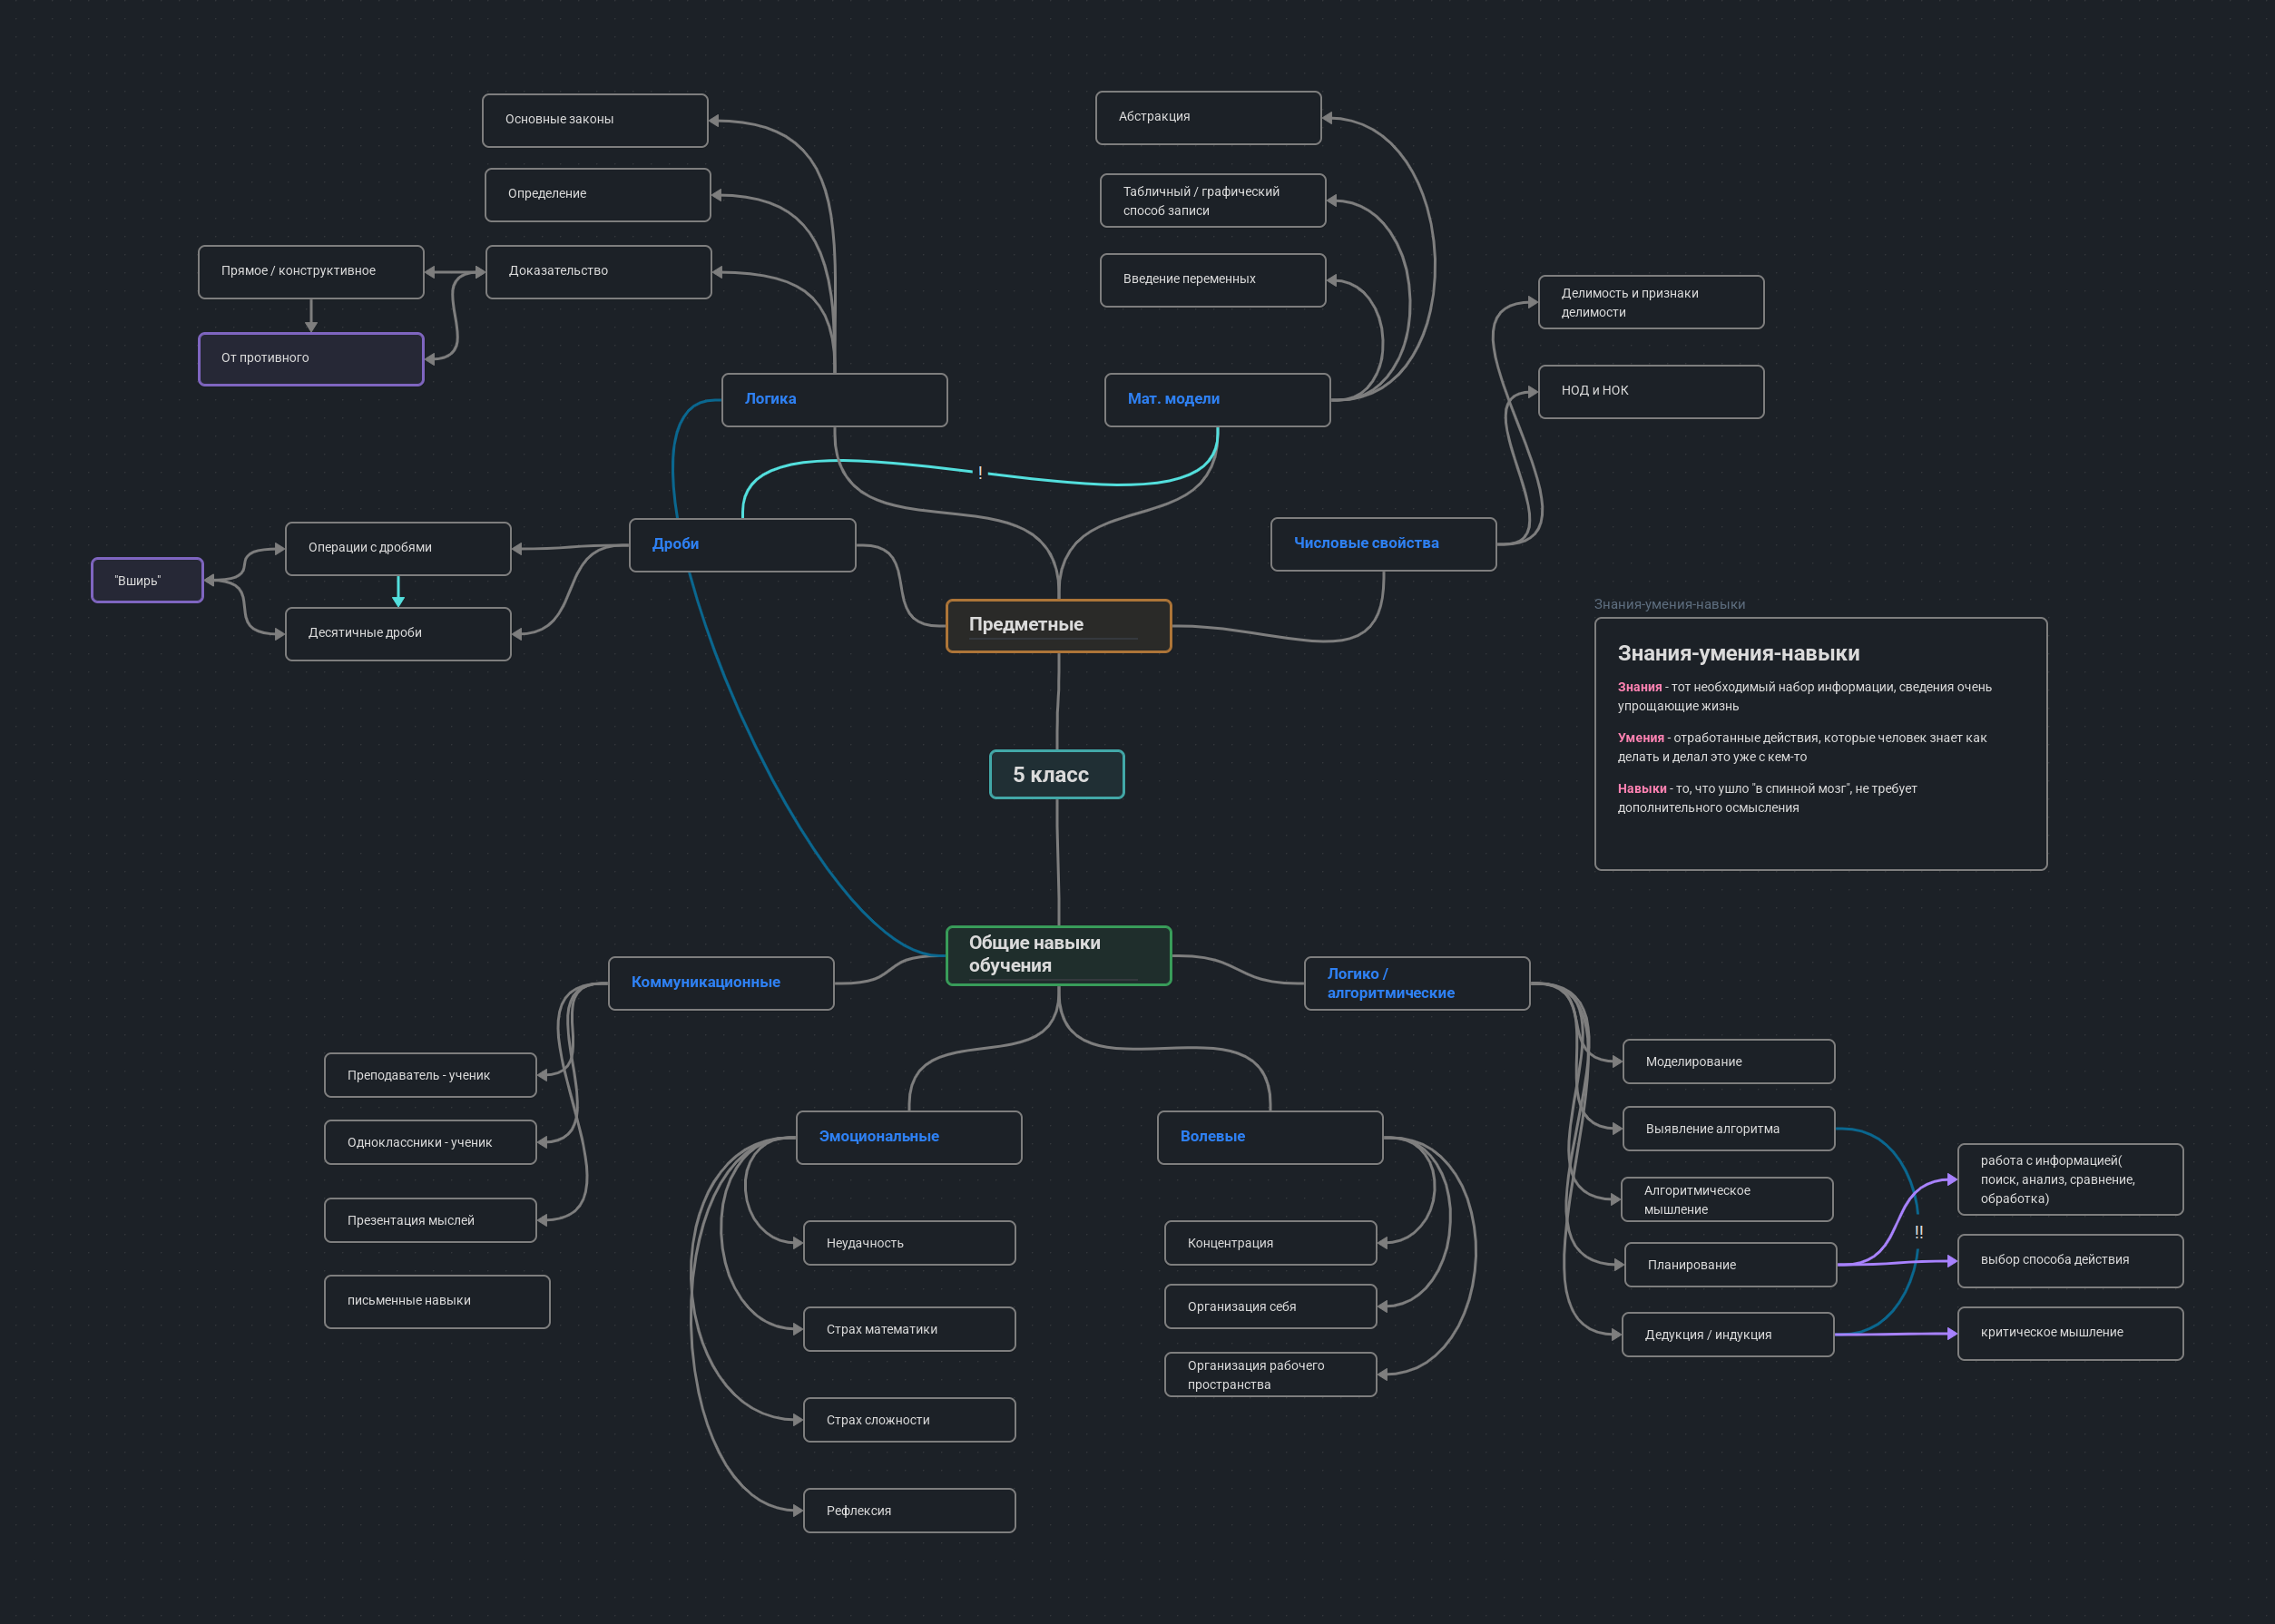
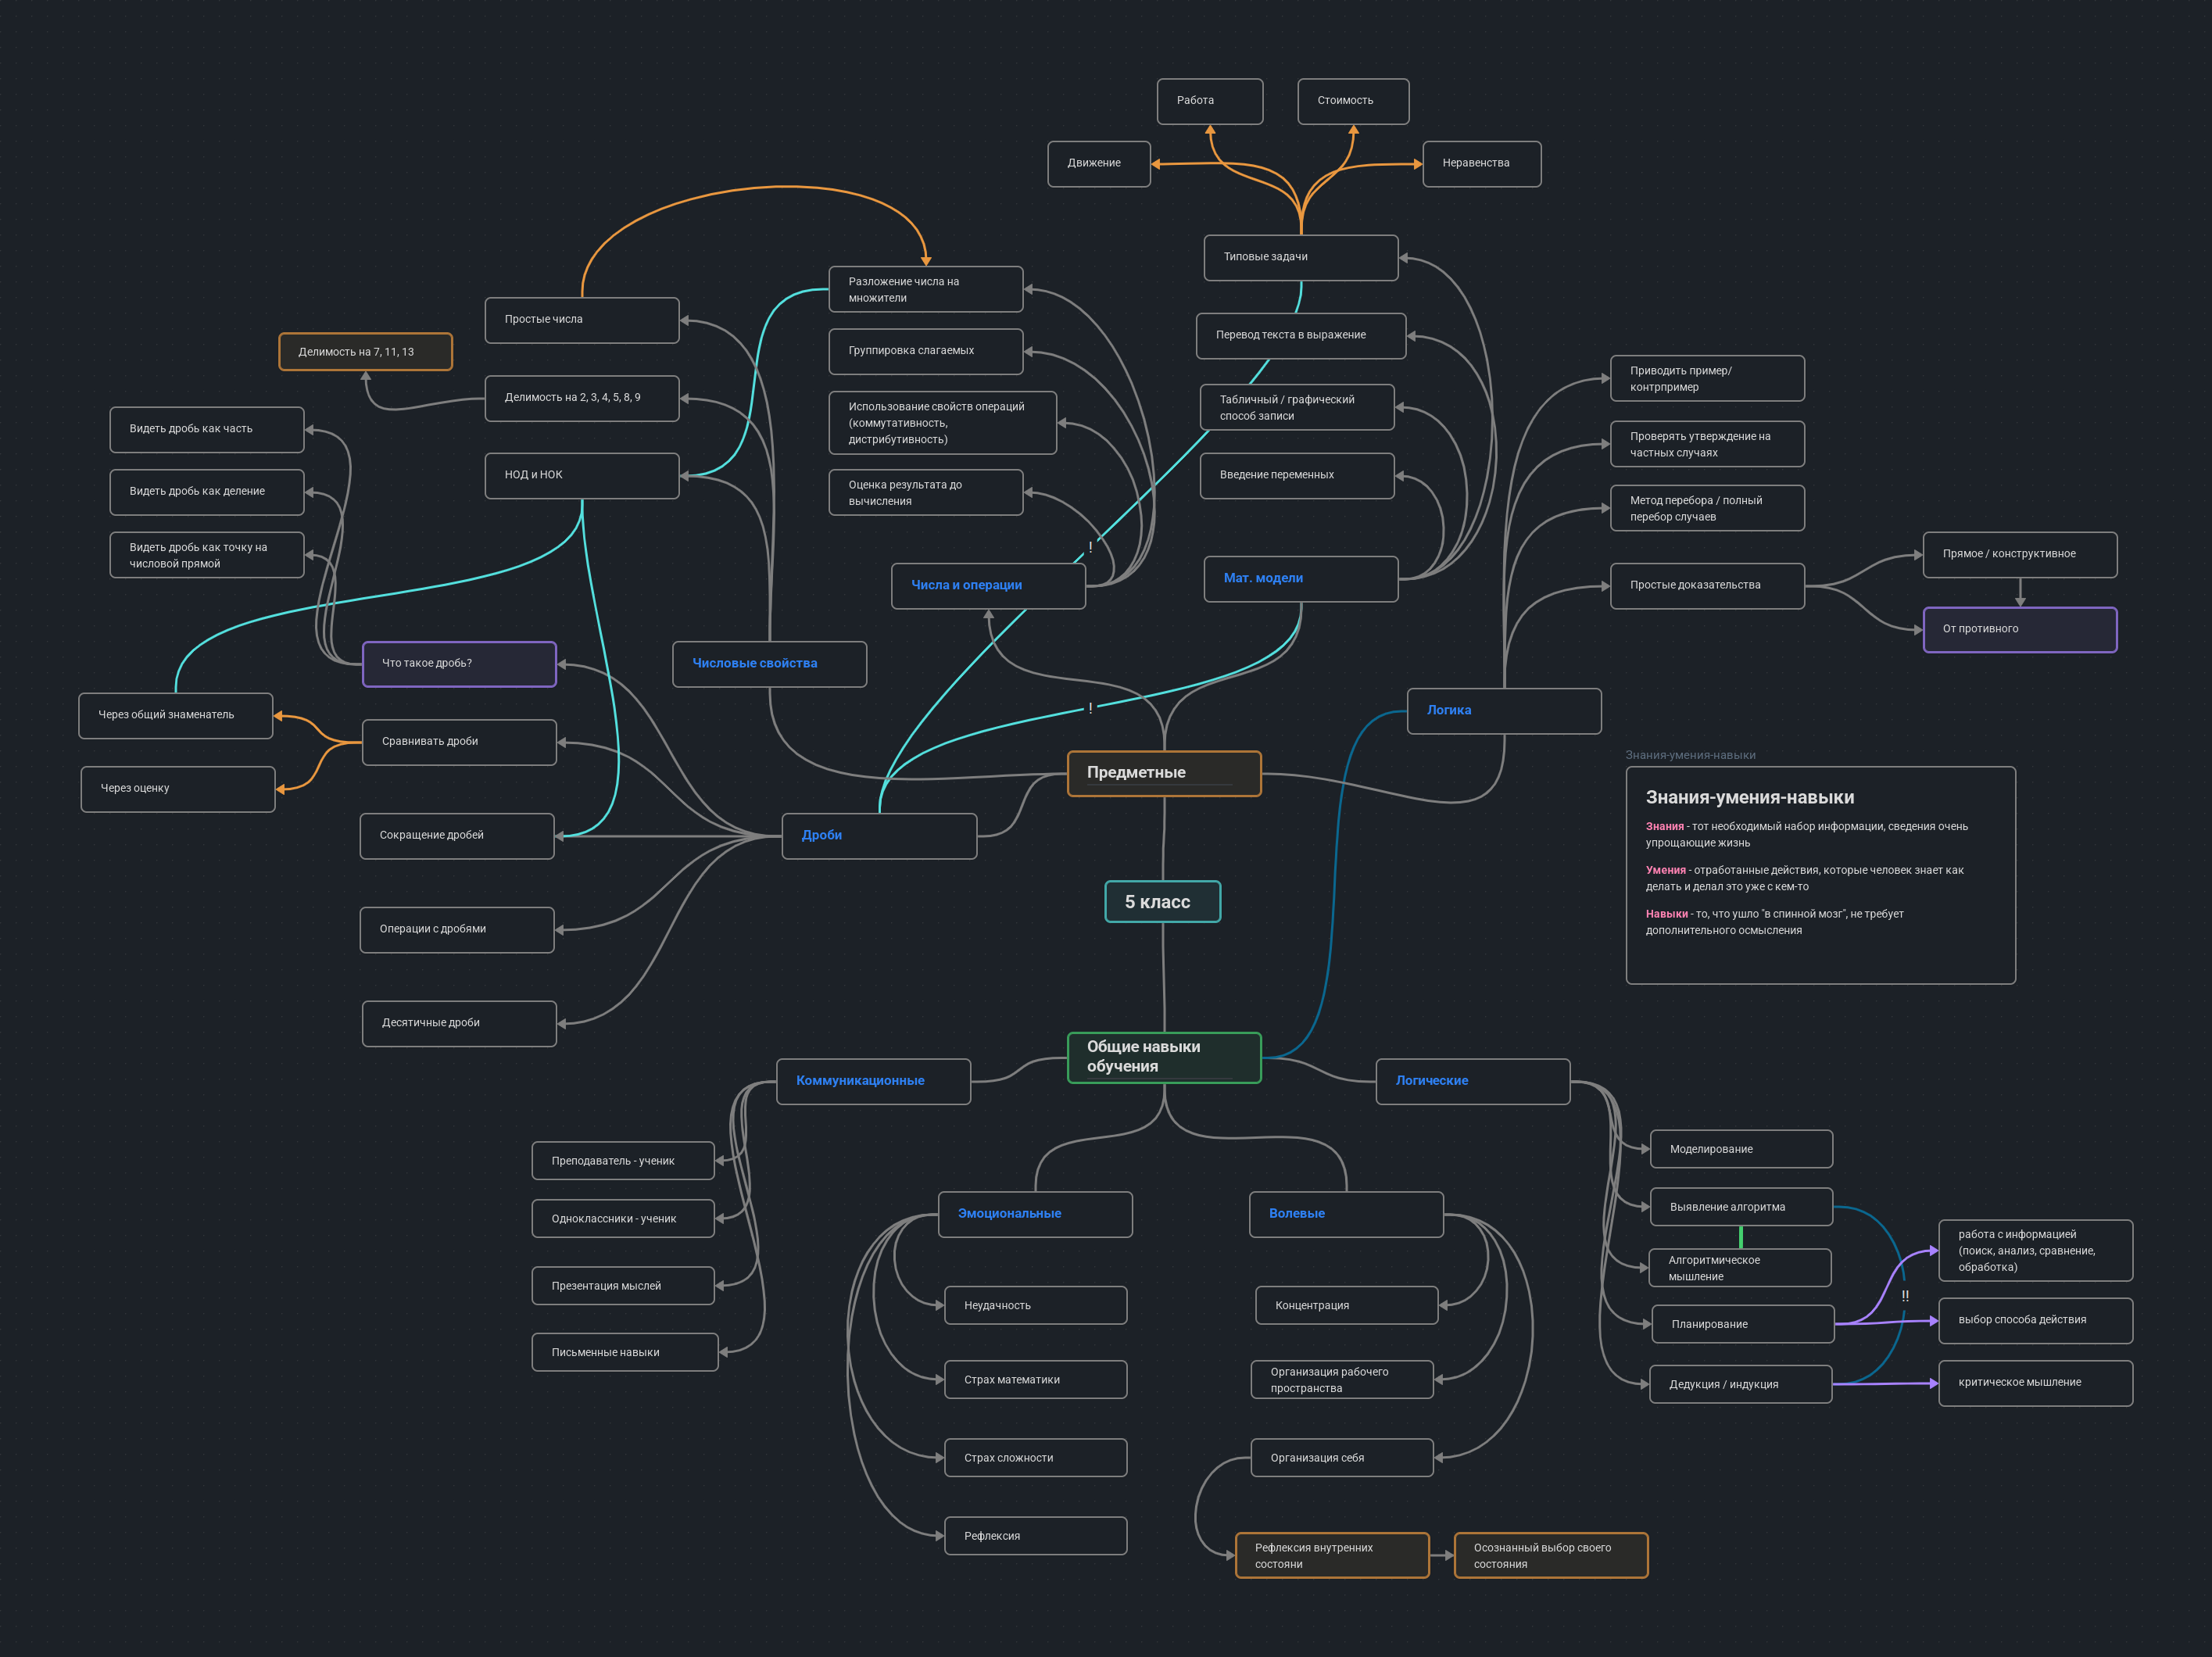
update full_map.png

diff --git a/_site/index.html b/_site/index.html
@@ -5,24 +5,24 @@
     <meta name="viewport" content="width=device-width, initial-scale=1">
     <title>Home — Илья Амехин</title>
     <meta name="description" content="Minimal academic homepage.">
-    <link rel="stylesheet" href="/assets/style.css">
+    <link rel="stylesheet" href="/academic-site/assets/style.css">
   </head>
   <body>
     <div class="page">
       <header class="site-header">
-        <div class="site-title"><a href="/">Илья Амехин</a></div>
+        <div class="site-title"><a href="/academic-site/">Илья Амехин</a></div>
         <nav>
           <ul class="nav-list">
             
-              <li><a href="/">Home</a></li>
+              <li><a href="/academic-site/">Home</a></li>
             
-              <li><a href="/mathematics/">Mathematics</a></li>
+              <li><a href="/academic-site/mathematics/">Mathematics</a></li>
             
-              <li><a href="/learning/">Learning</a></li>
+              <li><a href="/academic-site/learning/">Learning</a></li>
             
-              <li><a href="/school-notes/">School Notes</a></li>
+              <li><a href="/academic-site/school-notes/">School Notes</a></li>
             
-              <li><a href="/about/">About</a></li>
+              <li><a href="/academic-site/about/">About</a></li>
             
           </ul>
         </nav>
@@ -40,10 +40,10 @@
 </ul>
 <h2>Sections</h2>
 <ul>
-<li><a href="/mathematics/">Mathematics</a></li>
-<li><a href="/learning/">Learning</a></li>
-<li><a href="/school-notes/">School Notes</a></li>
-<li><a href="/about/">About</a></li>
+<li><a href="/academic-site/mathematics/">Mathematics</a></li>
+<li><a href="/academic-site/learning/">Learning</a></li>
+<li><a href="/academic-site/school-notes/">School Notes</a></li>
+<li><a href="/academic-site/about/">About</a></li>
 </ul>
 <h2>Current state</h2>
 <p>This is version 0.1 of the site. Only selected and structured notes are published here.</p>

diff --git a/_site/mathematics/index.html b/_site/mathematics/index.html
@@ -5,24 +5,24 @@
     <meta name="viewport" content="width=device-width, initial-scale=1">
     <title>Mathematics — Илья Амехин</title>
     <meta name="description" content="Личный академический сайт: математика, учебные заметки и учительские школьные материалы.">
-    <link rel="stylesheet" href="/assets/style.css">
+    <link rel="stylesheet" href="/academic-site/assets/style.css">
   </head>
   <body>
     <div class="page">
       <header class="site-header">
-        <div class="site-title"><a href="/">Илья Амехин</a></div>
+        <div class="site-title"><a href="/academic-site/">Илья Амехин</a></div>
         <nav>
           <ul class="nav-list">
             
-              <li><a href="/">Home</a></li>
+              <li><a href="/academic-site/">Home</a></li>
             
-              <li><a href="/mathematics/">Mathematics</a></li>
+              <li><a href="/academic-site/mathematics/">Mathematics</a></li>
             
-              <li><a href="/learning/">Learning</a></li>
+              <li><a href="/academic-site/learning/">Learning</a></li>
             
-              <li><a href="/school-notes/">School Notes</a></li>
+              <li><a href="/academic-site/school-notes/">School Notes</a></li>
             
-              <li><a href="/about/">About</a></li>
+              <li><a href="/academic-site/about/">About</a></li>
             
           </ul>
         </nav>
@@ -37,14 +37,14 @@
 <h2>DST / logic-topology</h2>
 <ul class="note-list">
   <li>
-    <a href="/notes/mathematics/dst/grigorchuk.pdf" target="_blank" rel="noopener noreferrer">
+    <a href="/academic-site/notes/mathematics/dst/grigorchuk.pdf" target="_blank" rel="noopener noreferrer">
     <strong>Нетривиальные вложения групп Григорчука в автоморфизмы деревьев</strong><br>
     </a>
     <span class="meta">status: revised · category: DST / logic-topology</span><br>
     Посчитали количество нетривиальных вложений групп в автоморфизмы деревьев. Введены основные понятия геометрической теории групп и определения деревьев.
   </li>
   <li>
-    <a href="/notes/mathematics/dst/solver.pdf" target="_blank" rel="noopener noopener">
+    <a href="/academic-site/notes/mathematics/dst/solver.pdf" target="_blank" rel="noopener noopener">
     <strong>Решебник "Начала теории множеств"</strong><br>
     </a>
     <span class="meta">status: draft · category: DST / logic-topology</span><br>
@@ -65,7 +65,7 @@
 <h2>Reading notes</h2>
 <ul class="note-list">
   <li> 
-    <a href="/notes/mathematics/reading/sphere_triang.pdf" target="_blank" rel="noopener noreferrer">
+    <a href="/academic-site/notes/mathematics/reading/sphere_triang.pdf" target="_blank" rel="noopener noreferrer">
     <strong>Число триангуляций сферы</strong><br>
     </a>
     <span class="meta">status: draft · category: reading notes</span><br>

diff --git a/_site/school-notes/index.html b/_site/school-notes/index.html
@@ -5,24 +5,24 @@
     <meta name="viewport" content="width=device-width, initial-scale=1">
     <title>School Notes — Илья Амехин</title>
     <meta name="description" content="Личный академический сайт: математика, учебные заметки и учительские школьные материалы.">
-    <link rel="stylesheet" href="/assets/style.css">
+    <link rel="stylesheet" href="/academic-site/assets/style.css">
   </head>
   <body>
     <div class="page">
       <header class="site-header">
-        <div class="site-title"><a href="/">Илья Амехин</a></div>
+        <div class="site-title"><a href="/academic-site/">Илья Амехин</a></div>
         <nav>
           <ul class="nav-list">
             
-              <li><a href="/">Home</a></li>
+              <li><a href="/academic-site/">Home</a></li>
             
-              <li><a href="/mathematics/">Mathematics</a></li>
+              <li><a href="/academic-site/mathematics/">Mathematics</a></li>
             
-              <li><a href="/learning/">Learning</a></li>
+              <li><a href="/academic-site/learning/">Learning</a></li>
             
-              <li><a href="/school-notes/">School Notes</a></li>
+              <li><a href="/academic-site/school-notes/">School Notes</a></li>
             
-              <li><a href="/about/">About</a></li>
+              <li><a href="/academic-site/about/">About</a></li>
             
           </ul>
         </nav>
@@ -43,7 +43,7 @@
     Мой overleaf с листочками для 5 класса по математике.
   </li>
   <li>
-    <a href="/images/full_map.png" target="_blank" rel="noopener noreferrer">
+    <a href="/academic-site/images/full_map.png" target="_blank" rel="noopener noreferrer">
     <strong>Карта знаний-умений-навыков для 5 класса</strong><br>
     </a>
     <span class="meta">status: revised</span><br>

diff --git a/_site/about/index.html b/_site/about/index.html
@@ -5,24 +5,24 @@
     <meta name="viewport" content="width=device-width, initial-scale=1">
     <title>About — Илья Амехин</title>
     <meta name="description" content="Личный академический сайт: математика, учебные заметки и учительские школьные материалы.">
-    <link rel="stylesheet" href="/assets/style.css">
+    <link rel="stylesheet" href="/academic-site/assets/style.css">
   </head>
   <body>
     <div class="page">
       <header class="site-header">
-        <div class="site-title"><a href="/">Илья Амехин</a></div>
+        <div class="site-title"><a href="/academic-site/">Илья Амехин</a></div>
         <nav>
           <ul class="nav-list">
             
-              <li><a href="/">Home</a></li>
+              <li><a href="/academic-site/">Home</a></li>
             
-              <li><a href="/mathematics/">Mathematics</a></li>
+              <li><a href="/academic-site/mathematics/">Mathematics</a></li>
             
-              <li><a href="/learning/">Learning</a></li>
+              <li><a href="/academic-site/learning/">Learning</a></li>
             
-              <li><a href="/school-notes/">School Notes</a></li>
+              <li><a href="/academic-site/school-notes/">School Notes</a></li>
             
-              <li><a href="/about/">About</a></li>
+              <li><a href="/academic-site/about/">About</a></li>
             
           </ul>
         </nav>

diff --git a/_site/learning/index.html b/_site/learning/index.html
@@ -5,24 +5,24 @@
     <meta name="viewport" content="width=device-width, initial-scale=1">
     <title>Learning — Илья Амехин</title>
     <meta name="description" content="Личный академический сайт: математика, учебные заметки и учительские школьные материалы.">
-    <link rel="stylesheet" href="/assets/style.css">
+    <link rel="stylesheet" href="/academic-site/assets/style.css">
   </head>
   <body>
     <div class="page">
       <header class="site-header">
-        <div class="site-title"><a href="/">Илья Амехин</a></div>
+        <div class="site-title"><a href="/academic-site/">Илья Амехин</a></div>
         <nav>
           <ul class="nav-list">
             
-              <li><a href="/">Home</a></li>
+              <li><a href="/academic-site/">Home</a></li>
             
-              <li><a href="/mathematics/">Mathematics</a></li>
+              <li><a href="/academic-site/mathematics/">Mathematics</a></li>
             
-              <li><a href="/learning/">Learning</a></li>
+              <li><a href="/academic-site/learning/">Learning</a></li>
             
-              <li><a href="/school-notes/">School Notes</a></li>
+              <li><a href="/academic-site/school-notes/">School Notes</a></li>
             
-              <li><a href="/about/">About</a></li>
+              <li><a href="/academic-site/about/">About</a></li>
             
           </ul>
         </nav>

diff --git a/_site/notes/learning/planning_system/index.html b/_site/notes/learning/planning_system/index.html
@@ -5,24 +5,24 @@
     <meta name="viewport" content="width=device-width, initial-scale=1">
     <title>Система планирования — Илья Амехин</title>
     <meta name="description" content="Структурированная заметка о системе планирования.">
-    <link rel="stylesheet" href="/assets/style.css">
+    <link rel="stylesheet" href="/academic-site/assets/style.css">
   </head>
   <body>
     <div class="page">
       <header class="site-header">
-        <div class="site-title"><a href="/">Илья Амехин</a></div>
+        <div class="site-title"><a href="/academic-site/">Илья Амехин</a></div>
         <nav>
           <ul class="nav-list">
             
-              <li><a href="/">Home</a></li>
+              <li><a href="/academic-site/">Home</a></li>
             
-              <li><a href="/mathematics/">Mathematics</a></li>
+              <li><a href="/academic-site/mathematics/">Mathematics</a></li>
             
-              <li><a href="/learning/">Learning</a></li>
+              <li><a href="/academic-site/learning/">Learning</a></li>
             
-              <li><a href="/school-notes/">School Notes</a></li>
+              <li><a href="/academic-site/school-notes/">School Notes</a></li>
             
-              <li><a href="/about/">About</a></li>
+              <li><a href="/academic-site/about/">About</a></li>
             
           </ul>
         </nav>